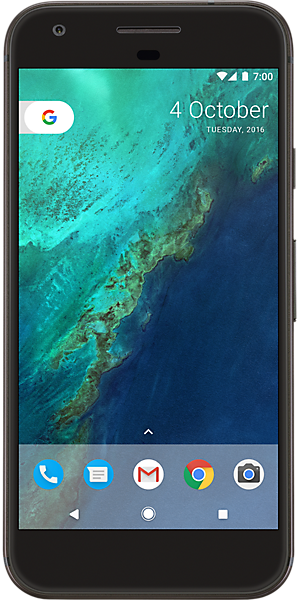
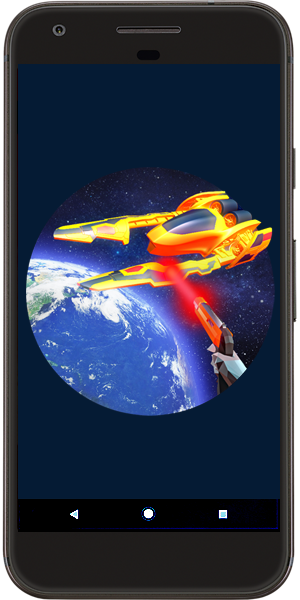
fixed with new info

diff --git a/index.html b/index.html
@@ -215,7 +215,7 @@
                     </div>
 
                 </div>
-            </div><!--/#service-page--> -->
+            </div><!--/#service-page-->
 
             <div id="portfolio-page" class="item">
                 <div class="container">
@@ -231,13 +231,14 @@
 
                                 <div class="col-sm-4">
                                     <div class="overlay-container">
-                                        <img class="img-responsive" src="images/portfolio/1.jpg" alt="">
+                                        <img class="img-responsive" src="images/portfolio/1.png" alt="">
                                         <div class="overlay">
                                             <div class="vertical-middle">
                                                 <div class="vertical-middle-inner">
                                                     <a href="#"><i class="fa fa-plus"></i></a>
-                                                    <h4>Marlon Henson INC</h4>
-                                                    Print Templates
+                                                    <h4>Space Clash</h4>
+                                                    Battle aliens in the war to save the <br> earth in this intense shooter game.<br>
+                                                    Available on Googleplay.
                                                 </div>
                                             </div>
                                         </div>
@@ -245,13 +246,13 @@
                                 </div>
                                 <div class="col-sm-4">
                                     <div class="overlay-container">
-                                        <img class="img-responsive" src="images/portfolio/2.jpg" alt="">
+                                        <img class="img-responsive" src="images/portfolio/2.png" alt="">
                                         <div class="overlay">
                                             <div class="vertical-middle">
                                                 <div class="vertical-middle-inner">
                                                     <a href="#"><i class="fa fa-plus"></i></a>
-                                                    <h4>Marlon Henson INC</h4>
-                                                    Print Templates
+                                                    <h4>Code Play</h4>
+                                                    Coming soon to DayDream VR
                                                 </div>
                                             </div>
                                         </div>
@@ -259,13 +260,13 @@
                                 </div>
                                 <div class="col-sm-4">
                                     <div class="overlay-container">
-                                        <img class="img-responsive" src="images/portfolio/3.jpg" alt="">
+                                        <img class="img-responsive" src="images/portfolio/3.png" alt="">
                                         <div class="overlay">
                                             <div class="vertical-middle">
                                                 <div class="vertical-middle-inner">
                                                     <a href="#"><i class="fa fa-plus"></i></a>
-                                                    <h4>Marlon Henson INC</h4>
-                                                    Print Templates
+                                                    <h4>Ele Run</h4>
+                                                    Coming soon to Android
                                                 </div>
                                             </div>
                                         </div>
@@ -379,7 +380,7 @@
                                             </div>
                                         </div>
                                     </div>
-                                    <h3 class="entry-title"><a href="#">Peaceful Protests Derailed After Water Bottles Thrown, 47 Arrested Overnight</a></h3>
+                                    <h3 class="entry-title"><a href="#">The brains of the game.</a></h3>
                                 </div>
                                 <div class="col-sm-2">
                                 </div>
@@ -394,7 +395,7 @@
                                             </div>
                                         </div>
                                     </div>
-                                    <h3 class="entry-title"><a href="#">20 Things Incoming College Freshmen Will Never Understand</a></h3>
+                                    <h3 class="entry-title"><a href="#">The beauty of the game.</a></h3>
                                 </div>
                                 <!-- <div class="col-sm-4">
                                     <div class="overlay-container">
